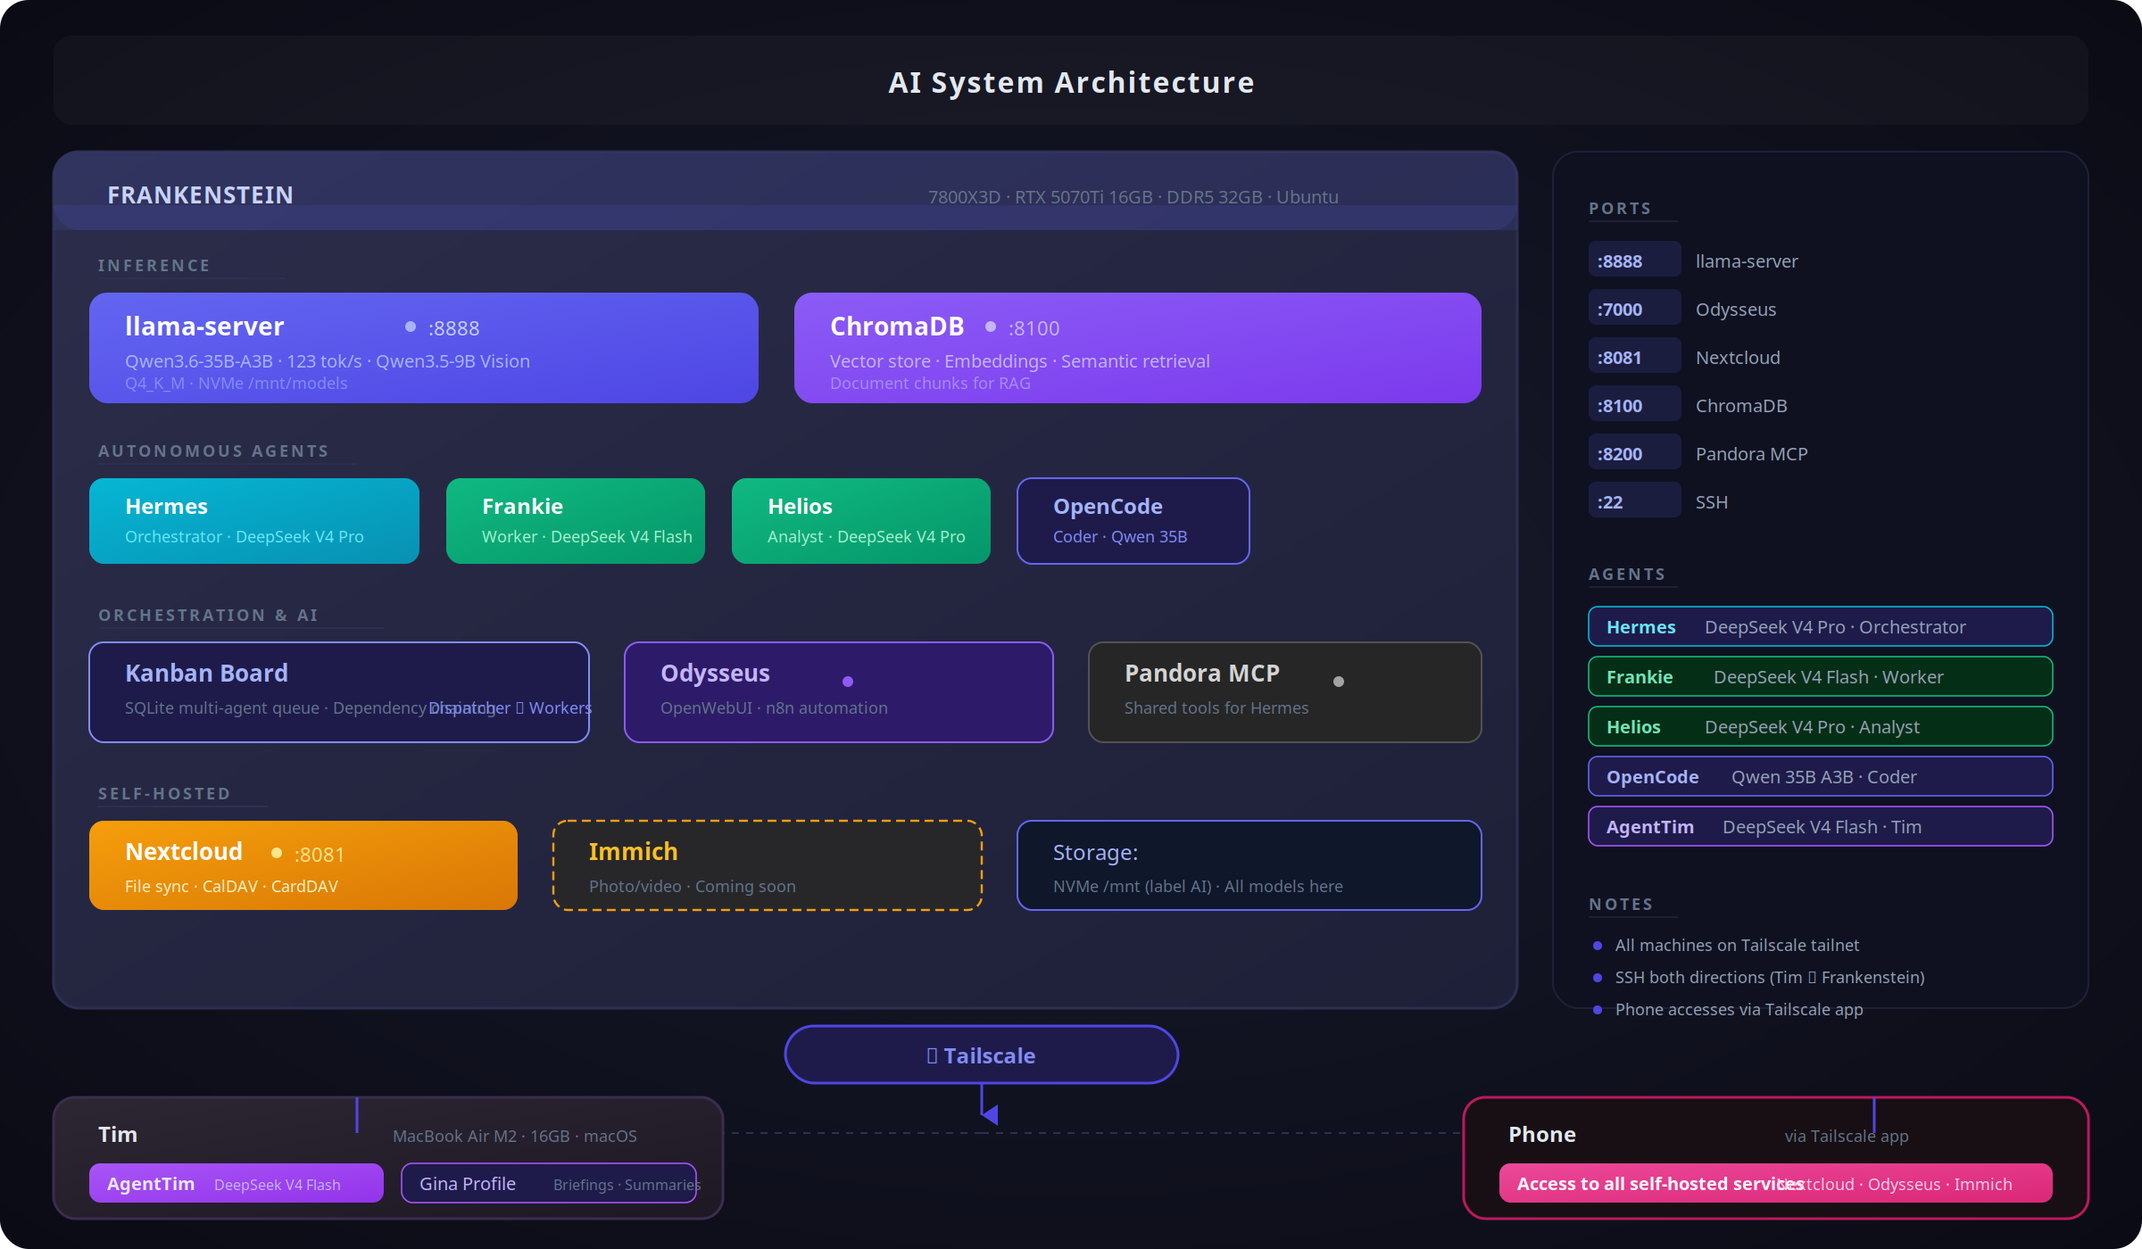
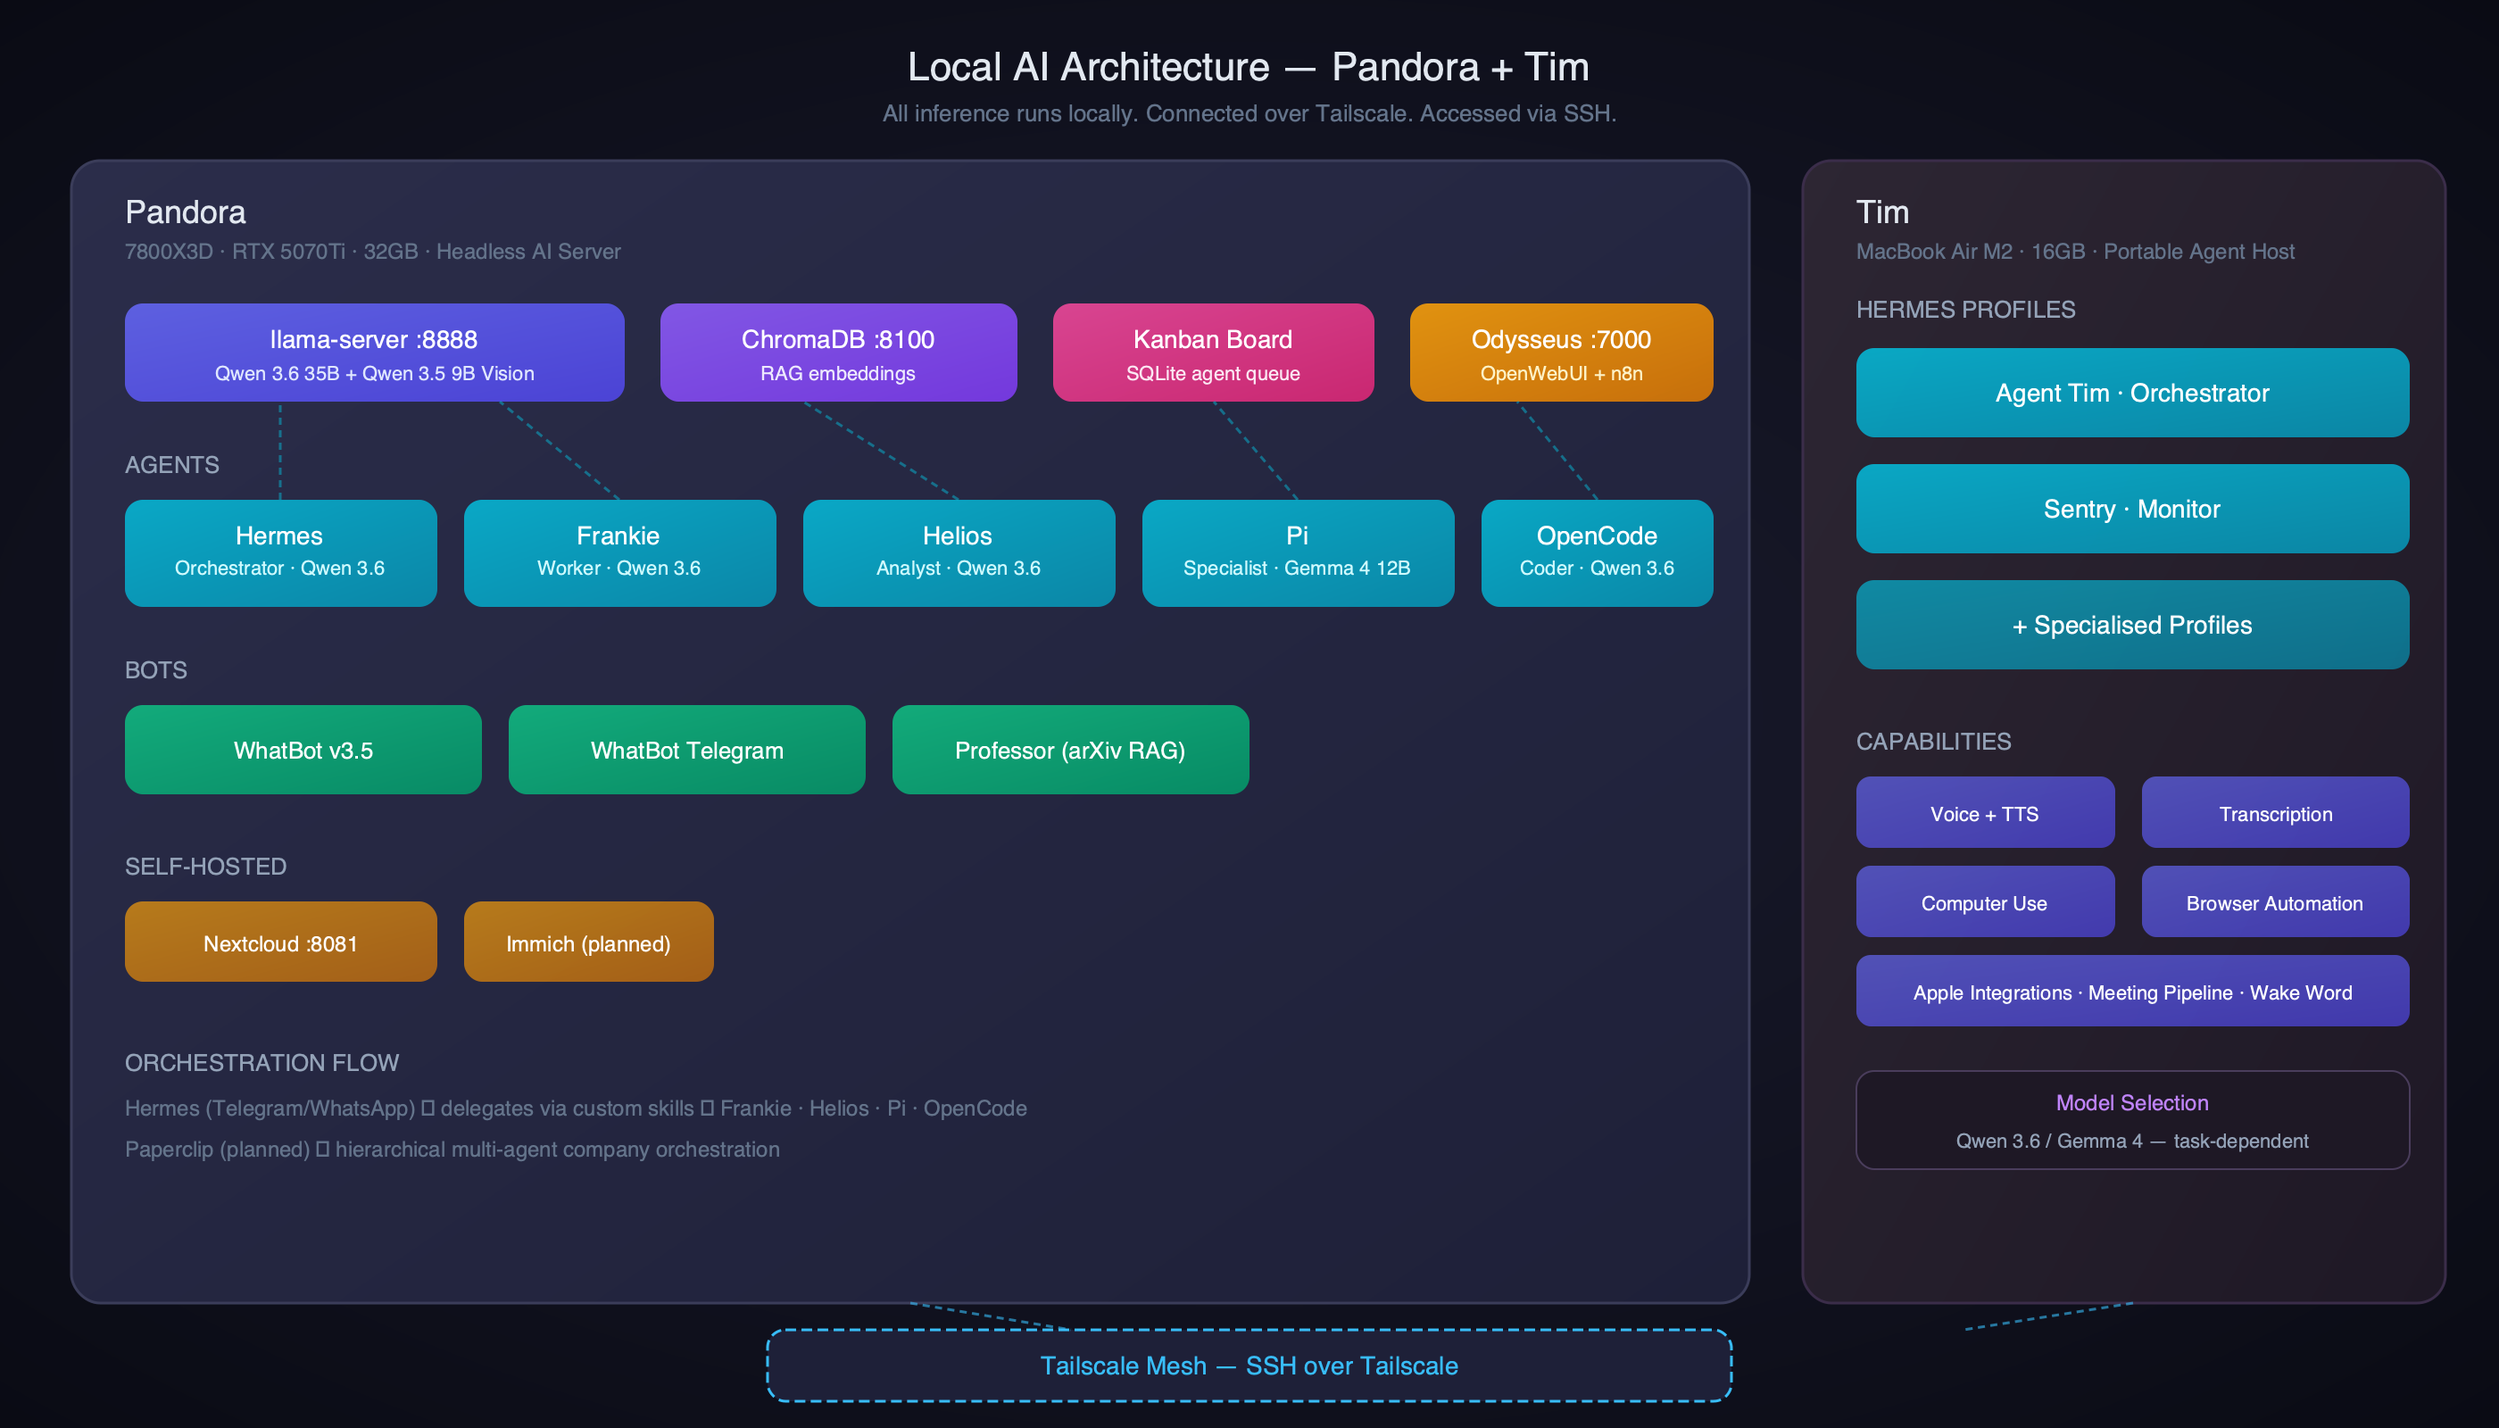
Regenerate diagram, humanise language, remove WhatBot mentions
- New SVG/PNG architecture diagram with Pandora, Tim, all agents
- Humanised language throughout both markdown files
- Removed WhatBot project references from Projects section
- No IPs or credentials in repo (verified with grep scan)

diff --git a/JOURNEY.md b/JOURNEY.md
@@ -5,22 +5,22 @@ How I went from zero code to a multi-machine, multi-agent AI system in under a y
 ---
 
 ## Prologue: The Beginning (September 2025)
-I came to the UK to start my degree at Cardiff University. That's where it started — not with a fascination for AI, but with a realization. I quickly understood that a degree alone wasn't going to be enough. I needed to upskill myself, to learn something practical alongside the academic side.
+I came to the UK to start my degree at Cardiff University. That's where it started — not with some fascination for AI, but with a realization. A degree alone wasn't going to be enough. I needed to upskill, learn something practical alongside the academic side.
 
-I had come here with a gaming PC — 7800X3D, RTX 5070Ti, 32GB DDR5. Built it for games, not for AI. But it was sitting there, powerful hardware just waiting to be used for something more.
+I had a gaming PC — 7800X3D, RTX 5070Ti, 32GB DDR5. Built it for games, not for AI. But it was sitting there, powerful hardware just gathering dust.
 
 So I thought — okay, let's try learning about AI.
 
 ## Phase 1: The Spark (Late 2025 / Early 2026)
-It started small. I'd use whatever experimental AI tools were available on the internet — web interfaces, free tiers, anything I could get my hands on. Just poking around, seeing what these things could do.
+It started small. I'd poke around whatever experimental AI tools were on the internet — web interfaces, free tiers, anything I could get my hands on. Just seeing what these things could do.
 
 Then I thought — can I run this locally? On my own machine?
 
-I found **LM Studio**. It had a GUI, a chat box right there, no terminal required. That was enough for me to try. I installed it, loaded up a tiny model, and started chatting.
+I found **LM Studio**. It had a GUI, a chat box right there, no terminal required. Good enough for me. I installed it, loaded up a tiny model, and started chatting.
 
 I had no idea what quantization was. I didn't know what context meant. I just typed things and watched responses appear.
 
-Most of what I learned came from **Reddit**. I'd search for my GPU specs, read what other people recommended, copy configurations, try them out. "What model runs best on a 5070Ti?" "What quant should I use?" "Why is my context so slow?" Everything — every setting, every decision — I learned from people who already figured it out. I was completely dependent on the internet's help.
+Most of what I learned came from **Reddit**. I'd search for my GPU specs, read what other people recommended, copy configurations, try them out. "What model runs best on a 5070Ti?" "What quant should I use?" "Why is my context so slow?" Everything — every setting, every decision — I learned from people who'd already figured it out. I was completely dependent on the internet's help.
 
 But it worked. And I wanted more.
 
@@ -29,9 +29,9 @@ LM Studio was great but I wanted more. I discovered **Ollama** — and that chan
 
 I went on a tear. I tried **Meta Llama** models. Then **Mistral**. Then **Gemma**. Then **Qwen 3.6**. Every new model family felt like opening a different door — each one had its own personality, its own strengths.
 
-This is where the obsession really took hold. I started running models on **both machines simultaneously** — Tim and Pandora — just for the sake of it. Not because I needed to. Because I was an enthusiast. Because it was exciting. Because I could.
+This is where the obsession really took hold. I started running models on **both machines simultaneously** — Tim and Pandora — just for the fun of it. Not because I needed to. Because I was an enthusiast. Because it was exciting. Because I could.
 
-I'd have something running on Pandora's GPU while Tim chewed through a different model. Two machines, both humming, both thinking. It felt like I had built something.
+I'd have something running on Pandora's GPU while Tim chewed through a different model. Two machines, both humming, both thinking. It felt like I'd built something real.
 
 But then I wanted the **power of my desktop with the mobility of my laptop**. I didn't want to be stuck at my desk to use AI. I wanted to use it at college, in lectures, wherever. That's when I discovered **Tailscale**. As long as both machines were on the same tailnet, I could route the endpoint and access the AI running on Pandora's GPU through my laptop, anywhere.
 
@@ -107,17 +107,11 @@ Now I run everything myself:
 | 5× Agents | Hermes, Frankie, Helios, Pi, OpenCode |
 | Tailscale | All machines connected |
 
-- **WhatBot v1** — first WhatsApp document assistant
 - Started building bots that could answer questions from uploaded files
 - RAG pipeline: documents → embeddings → ChromaDB → answers
 
 ## Phase 6: The Full Stack (August 2026)
 Everything accelerated. Multiple bots, voice, transcription, autonomous agents.
-
-**WhatsApp Bots:**
-- WhatBot evolved to **v3.5** — multi-format QA (PDFs, Word, Excel, images)
-- **Professor** — RAG-powered research bot. Upload arXiv papers, get grounded answers.
-- **WhatBot Telegram** — research assistant on Telegram
 
 **Tim gets serious:**
 - **Multiple Hermes profiles** — each with a role:
@@ -136,9 +130,16 @@ Everything accelerated. Multiple bots, voice, transcription, autonomous agents.
 - All agents dynamically switch between Qwen 3.6 and Gemma 4 based on task type
 - Reasoning-heavy workloads go to the bigger model, fast tasks stay light
 
-**GitHub projects growing:**
-- 6 repos total across bots and architecture docs
-- Each bot has its own repo with proper README
+## Phase 7: First Real Project & Paperclip (Late 2026)
+My professor at Cardiff gave me my first real opportunity — **curate a custom AI solution for him**. A WhatsApp RAG bot. A real project with a real client, not just tinkering.
+
+I used my **multi-agent system** to pull it off. Hermes coordinated. The agents ran inference. The pipeline handled embeddings and retrieval. It worked. It was the greatest experience of my life. I learned more from that one project than from months of experimentation.
+
+Everything I'd built — the headless server, the Tailscale mesh, the custom skills, the Kanban boards — it all came together for a real deliverable.
+
+Then I discovered **Paperclip**. An open-source project that lets you run your multi-agent system as a **company** — with org charts, budgets, governance, agent roles, and goal alignment. You're not just dispatching tasks anymore. You're managing an AI workforce. Claude Code, Codex, Hermes, custom scripts — Paperclip organizes them into a functioning hierarchy.
+
+That's where I am now. Taking everything I've learned and scaling it into something structured, governed, and real.
 
 ## The Stack Today
 ```mermaid
@@ -154,8 +155,6 @@ graph TB
         KB[Kanban Board]
         OD[Odysseus :7000]
         NC[Nextcloud :8081]
-        WB[WhatBot v3.5]
-        WT[WhatBot Telegram]
         PR[Professor]
     end
     subgraph T[Tim · MacBook M2]
@@ -173,9 +172,7 @@ graph TB
     LLM --- HE
     LLM --- PI
     LLM --- OC
-    LLM --- WB
     LLM --- PR
-    VEC --- WB
     VEC --- PR
 ```
 
@@ -186,30 +183,22 @@ graph TB
 - **Ollama changes the game.** Pull any model by name, run it instantly.
 - **Try everything.** Llama, Mistral, Gemma, Qwen — each model family teaches you something different.
 - **Running two machines at once is fun.** Not always practical, but always exciting.
+- **Tailscale makes it mobile.** Your desktop's power, anywhere you go.
 - **SSH + Tailscale open every door.** Two machines feel like one.
+- **Headless is the way.** Disconnect the monitor, dedicate the GPU to inference.
 - **Multi-agent orchestration is real.** Kanban boards + dispatchers + worker profiles work.
+- **Custom skills change everything.** Once you can write your own, the possibilities multiply.
 - **Self-hosting is addictive.** Once you control everything, you don't want to go back.
-- **Bots multiply fast.** WhatBot v1 → v3.5, Professor, Telegram bot — all in a month.
 - **Voice changes everything.** Talking to your agent feels different than typing.
 - **Local AI is enough.** No cloud APIs needed when your GPU does the work.
-
-## What's Next
-## Phase 7: First Real Project & Paperclip (Late 2026)
-My professor at Cardiff gave me my first real opportunity — **curate a custom AI solution for him**. A WhatsApp RAG bot. A real project with a real client, not just tinkering.
-
-I used my **multi-agent system** to pull it off. Hermes coordinated. The agents ran inference. The pipeline handled embeddings and retrieval. It worked. It was the greatest experience of my life. I learned more from that one project than from months of experimentation.
-
-Everything I'd built — the headless server, the Tailscale mesh, the custom skills, the Kanban boards — it all came together for a real deliverable.
-
-Then I discovered **Paperclip**. An open-source project that lets you run your multi-agent system as a **company** — with org charts, budgets, governance, agent roles, and goal alignment. You're not just dispatching tasks anymore. You're managing an AI workforce. Claude Code, Codex, Hermes, custom scripts — Paperclip organizes them into a functioning hierarchy.
-
-That's where I am now. Taking everything I've learned and scaling it into something structured, governed, and real.
+- **Real projects teach the most.** One deliverable beats a hundred experiments.
 
 ## What's Next
 - Immich (photo management) — finally setting it up
 - SMB file sharing between machines
 - More n8n automation workflows
 - Agent-to-agent communication across Tim and Pandora
+- Paperclip integration — structured multi-agent company
 - Whatever I learn next
 
 ---

diff --git a/README.md b/README.md
@@ -2,9 +2,9 @@
 
 > From zero code to a multi-machine, multi-agent AI system — this repo tracks every step.
 
-I came to the UK to start my degree at Cardiff University. I quickly realized a degree alone wasn't enough — I needed to upskill. I had a gaming PC. So I thought, let's try learning about AI.
+I came to the UK to start my degree at Cardiff University. Quickly realized a degree alone wasn't going to cut it — I needed to upskill. I had a gaming PC sitting there, so I thought, why not try learning about AI?
 
-That curiosity turned into a year-long spiral of tinkering, breaking, learning, and building. This repo is the map of that journey.
+That curiosity turned into a year of tinkering, breaking things, learning, and building. This repo is the map of that journey.
 
 ---
 
@@ -26,7 +26,7 @@ Phase 7  ──  First real project → Paperclip → structured AI company (you
 
 ![System Diagram](ai-architecture.svg)
 
-**TL;DR:** Two machines, one tailnet, a handful of local AI agents, and way too many containers.
+**Two machines, one tailnet, a bunch of local AI agents, and way too many containers.**
 
 | Machine | Specs | What it does |
 |---------|-------|-------------|
@@ -48,8 +48,6 @@ Phase 7  ──  First real project → Paperclip → structured AI company (you
 | Workspace | Odysseus `:7000` | OpenWebUI + n8n automation |
 | Self-hosted | Nextcloud `:8081` | File sync |
 | Self-hosted | Immich | Photo management (planned) |
-| Bot | WhatBot v3.5 | WhatsApp document assistant |
-| Bot | WhatBot Telegram | Telegram research assistant |
 | Bot | Professor | RAG-powered arXiv research bot |
 
 ### Tim (MacBook Air M2)
@@ -68,9 +66,9 @@ Phase 7  ──  First real project → Paperclip → structured AI company (you
 - Browser automation
 - Apple integrations (Notes, Reminders, iMessage, Find My)
 
-**How models are chosen:** Each profile picks Qwen 3.6 or Gemma 4 based on what it does — reasoning-heavy tasks go to the bigger model, fast lightweight tasks stay small. Everything runs locally on the machines.
+**How models get picked:** Each profile grabs Qwen 3.6 or Gemma 4 depending on what it's doing — heavy reasoning goes to the bigger model, fast lightweight stuff stays small. Everything runs locally on the machines.
 
-All connected over **Tailscale**. Phone accesses services through the tailnet.
+All connected over **Tailscale**. I access everything through SSH, even from my laptop at college.
 
 ---
 
@@ -81,19 +79,18 @@ See **[JOURNEY.md](JOURNEY.md)** for the complete timeline — from running my f
 ---
 
 ## Highlights
-- **September 2026** — Architecture documentation rewritten. Full agent stack documented.
-- **Late 2026** — Built WhatsApp RAG bot for professor. First real project. Discovered Paperclip — hierarchical multi-agent orchestration.
 
 - **September 2025** — Arrived in the UK for my degree at Cardiff University. Realized I needed to upskill.
-- **February 2026** — First GGUF download. No idea what a "quant" was. Learned everything from Reddit.
+- **February 2026** — First GGUF download. Had no idea what a "quant" was. Learned everything from Reddit.
 - **March 2026** — Discovered I could control context size. Mind blown.
 - **April 2026** — Open Claw released. Factory-reset Tim, installed it immediately. Early adopter.
 - **May 2026** — Open Claw was overkill. Switched to Hermes. Studied llama.cpp flags, installed vLLM on Tim.
-- **May 2026** — Disconnected monitor from GPU. Turned Pandora into a headless AI server. Dual-booted, tuned llama.cpp flags, all access via SSH over Tailscale.
+- **May 2026** — Disconnected the monitor from the GPU. Turned Pandora into a headless AI server. All access via SSH over Tailscale.
 - **May–July 2026** — Hermes became the biggest milestone. Two months learning agentic systems, custom skills, Claw Hub. Built autonomous multi-agent pipelines.
-- **July 2026** — Self-hosted services live (Nextcloud, Odysseus). WhatBot v1 on WhatsApp.
-- **August 2026** — WhatBot v3.5, Telegram bot, Professor (RAG from arXiv). Tim gets multiple profiles, voice, transcription, computer use.
-- **September 2026** — Architecture documentation rewritten. Full agent stack documented.
+- **July 2026** — Self-hosted services live (Nextcloud, Odysseus). First WhatsApp bot deployed.
+- **August 2026** — Professor bot built (RAG from arXiv). Tim gets multiple profiles, voice, transcription, computer use.
+- **September 2026** — Architecture docs rewritten. Full agent stack documented.
+- **Late 2026** — Built WhatsApp RAG bot for my professor. First real project. Discovered Paperclip — hierarchical multi-agent orchestration.
 
 ---
 
@@ -101,10 +98,7 @@ See **[JOURNEY.md](JOURNEY.md)** for the complete timeline — from running my f
 
 | Repo | What it does |
 |------|-------------|
-| [WhatBot v3.5](https://github.com/stopabidi/whatbot-v3.5) | WhatsApp document assistant — multi-format QA |
-| [WhatBot Telegram](https://github.com/stopabidi/whatbot-telegram-plan) | Telegram research assistant |
 | [Professor](https://github.com/stopabidi/professor-whatsapp-bot) | RAG-powered arXiv research bot |
-| [WhatBot (original)](https://github.com/stopabidi/WhatBot) | First iteration — WhatsApp QA |
 | [AI Architecture](https://github.com/stopabidi/ai-architecture) | This repo — system docs and diagrams |
 
 ---
